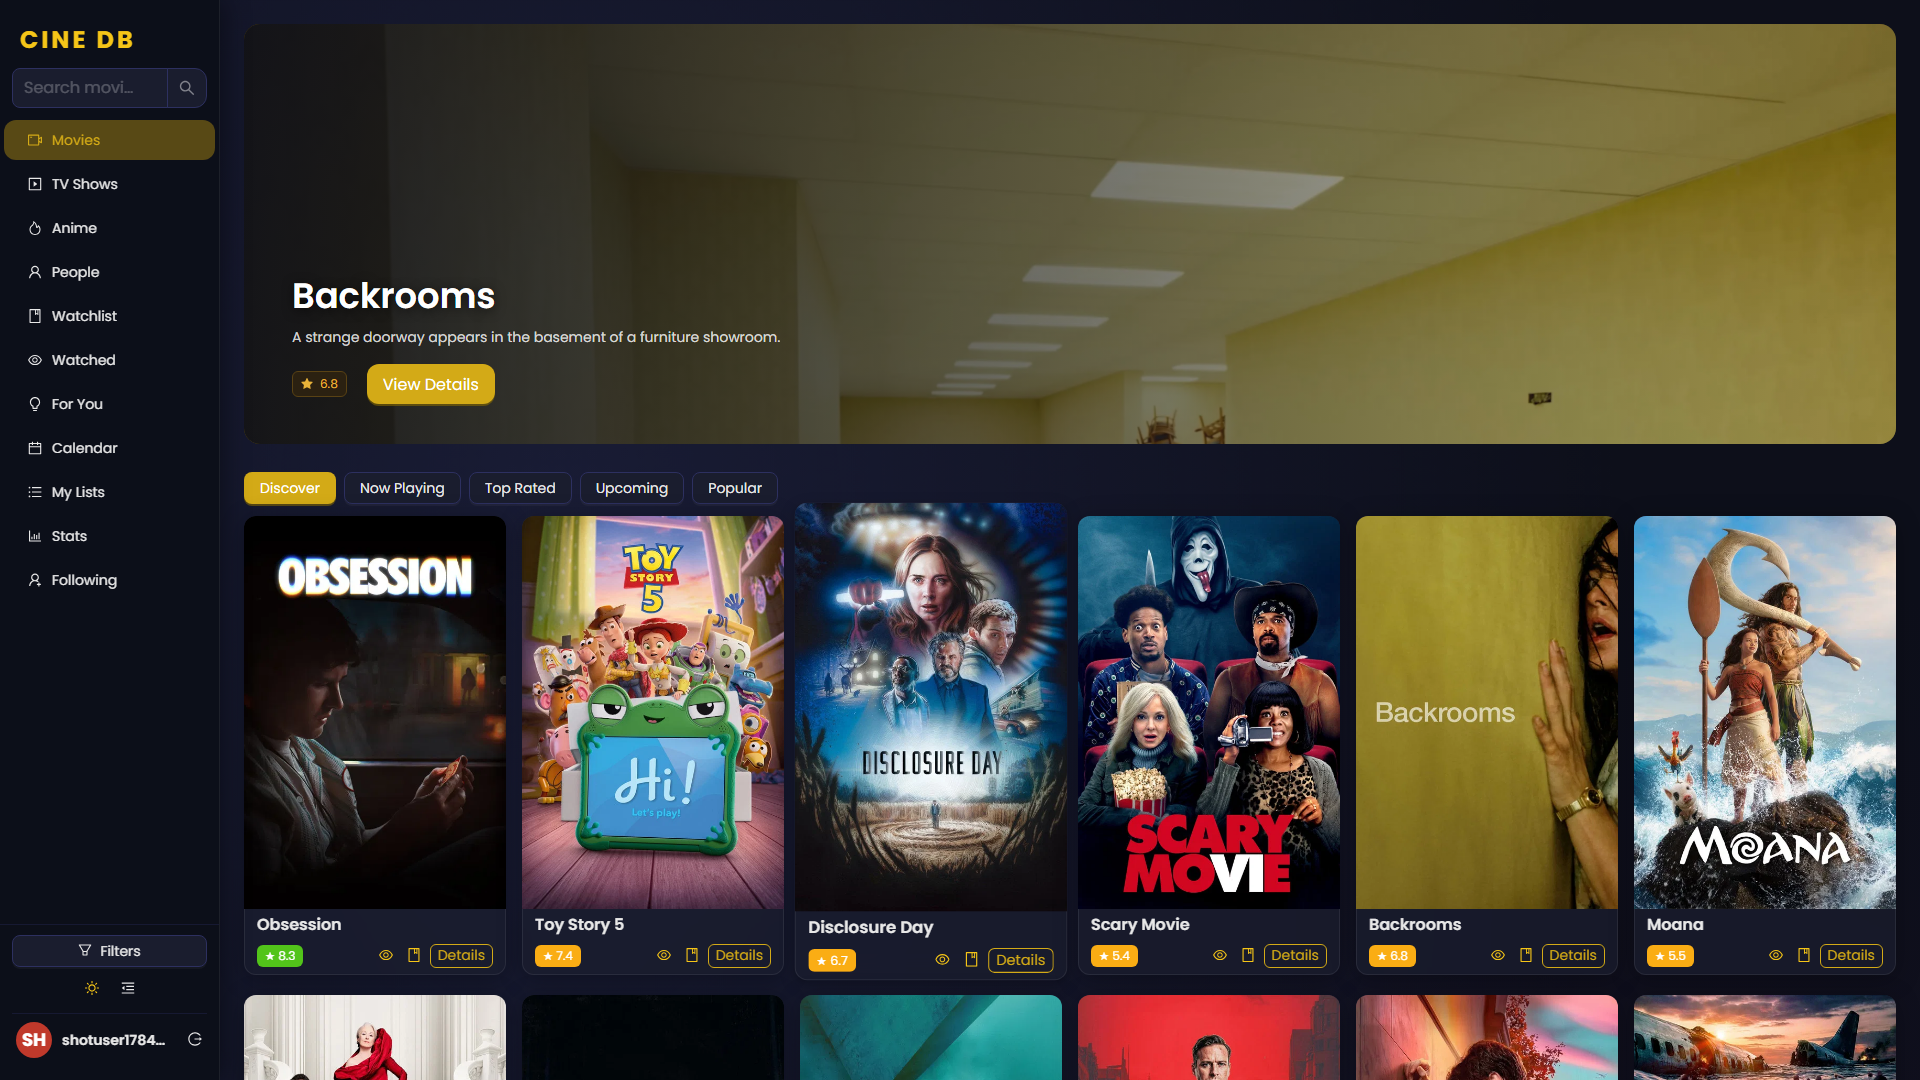
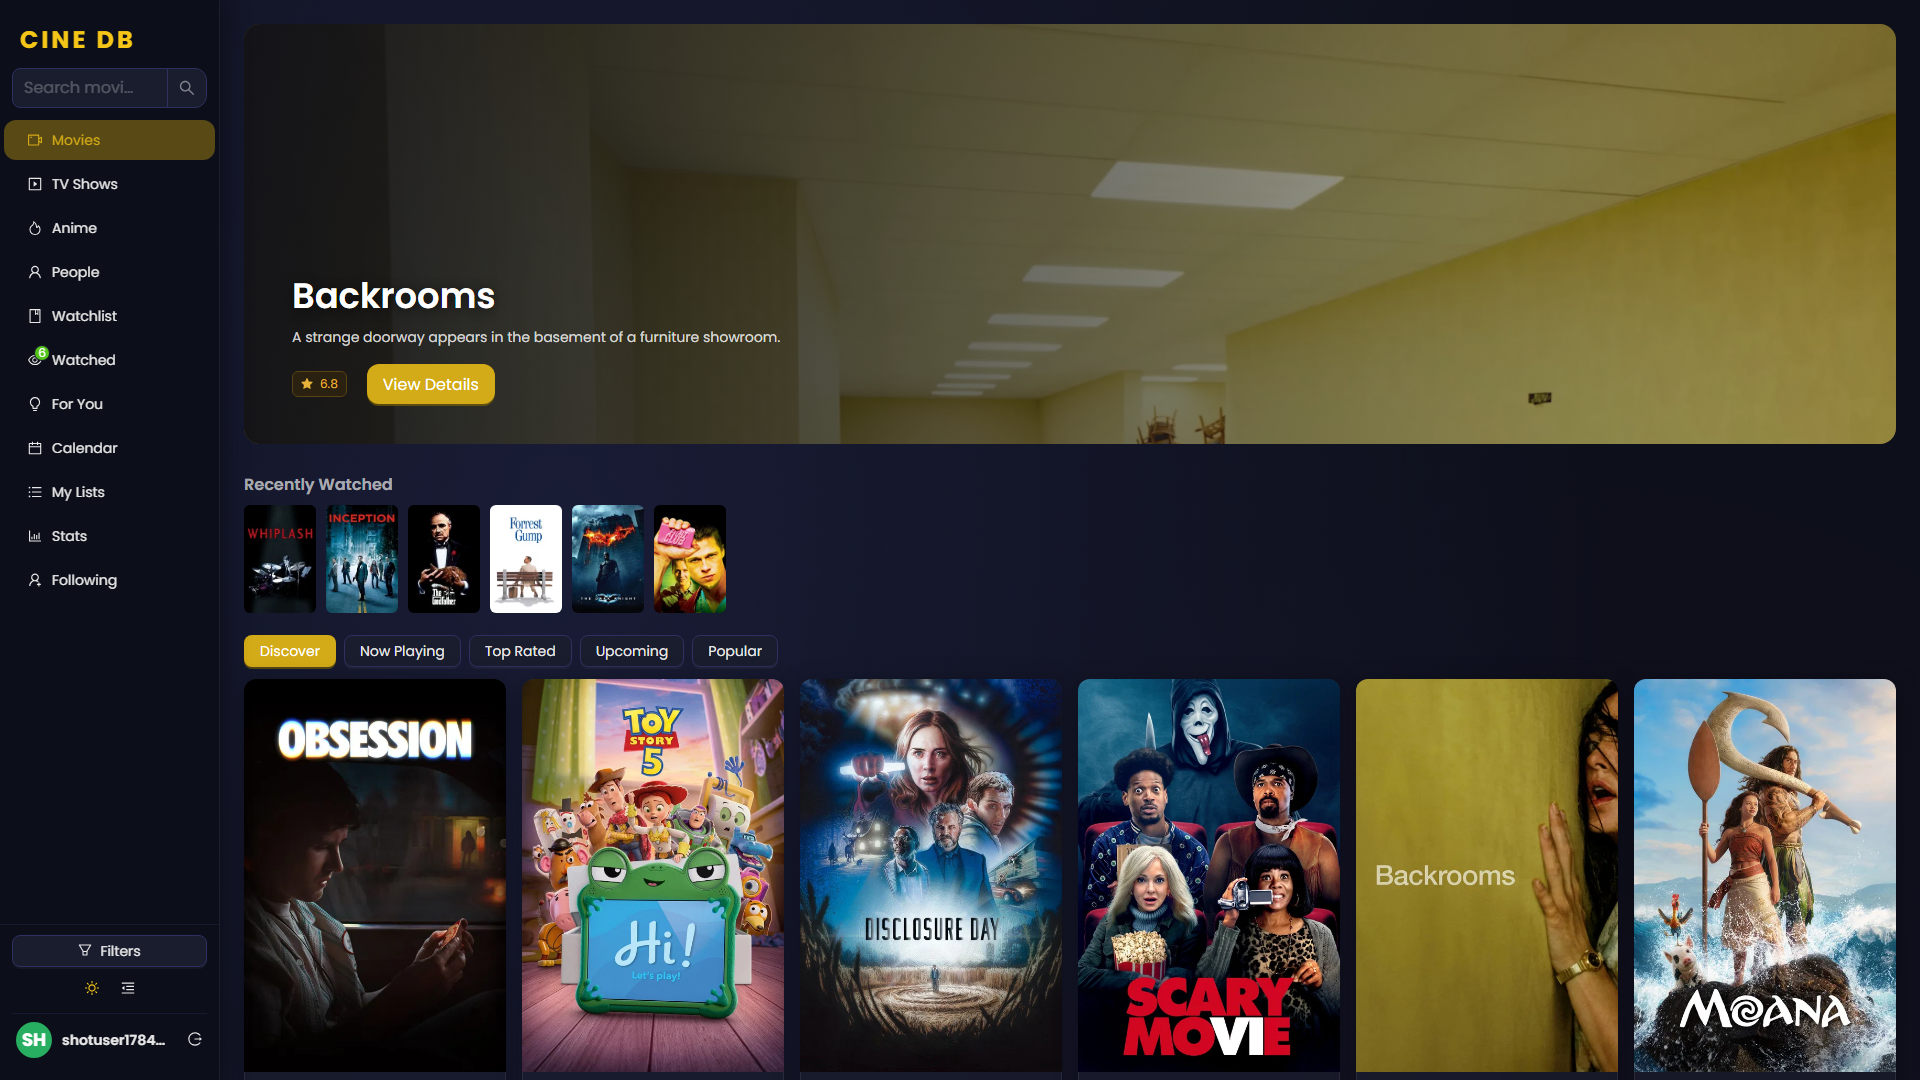
Bump to 0.15.1, fix blank Stats/Calendar in README screenshots
Regenerates the Stats and Calendar screenshots: Stats previously showed
  the empty state because the demo account had no watch history (now
  seeded with 6 known titles first), and Calendar occasionally showed
  blank skeleton cards because the capture script's image-load wait
  raced ahead of the page's own data fetch. Documents both gotchas in
  CLAUDE.md for future scripting against this app.

diff --git a/CLAUDE.md b/CLAUDE.md
@@ -36,6 +36,8 @@ Guidance for Claude Code when working in this repo. See `README.md` for full fea
 - To actually see a change: `npm run dev`, then drive it with Playwright (`playwright-core` is already a devDependency) — most pages require an authenticated user. Fastest path: register a throwaway account via `/register` (no email verification), then navigate. Movie ID `550` (Fight Club) is a reliable TMDB id for detail-page checks.
 - Write any verification scripts into the project root as `verify_*.js` (or `verify_*.py` for E2E/Playwright debugging) and delete them before finishing — don't leave scratch scripts in the tree (`.gitignore` also excludes both patterns as a backstop).
 - `useLocalStorage` (`src/hooks/useLocalStorage.ts`) `JSON.parse`s whatever it reads back out of a key, so a script/console write must be JSON-encoded (`localStorage.setItem("cinedb_theme", JSON.stringify("light"))`) — writing the bare string (`"light"` unquoted) makes the parse throw and silently falls back to the hook's default, with no visible error. Bit a Playwright screenshot script that tried to force light theme this way; theme never actually changed until the write was JSON-encoded.
+- When scripting a page that renders `SkeletonCard` (`src/components/SkeletonCard.tsx`, antd `Skeleton`/`Skeleton.Image`) while its own data fetch is in flight, don't wait on `<img>` completeness alone before screenshotting/asserting — the real `<img>` tags for its cards don't exist in the DOM yet, so that wait trivially passes on the loading state itself. Wait for `.ant-skeleton` to be gone first, then wait on images.
+- `CalendarPage`'s "next 7 days" list is a live TMDB fetch and can transiently come back empty under back-to-back automated requests (e.g. a screenshot script hitting several pages in quick succession), even seconds after the same account got a full list — don't treat one empty result as ground truth in a script/test; retry a couple of times before concluding the range genuinely has nothing.
 - `e2e/python/pytest.ini` sets `timeout_method = thread`, not pytest-timeout's default `signal` — required for this suite specifically. A hung Playwright sync-API call blocks in a background thread (its own asyncio subprocess reaper), and `signal`-mode timeouts only interrupt the main thread, so they can't unblock it; the process then rides GitHub Actions' 6h default job timeout instead of failing the one test. `thread` mode force-exits the interpreter on timeout instead, which is Playwright's own documented recommendation. Don't revert this to `signal` even though it means a genuinely stuck test kills the whole run rather than just failing — that's the safer failure mode here. `.github/workflows/ci.yml`'s `e2e-python` job also caps at `timeout-minutes: 15` as a backstop.
 - E2E `page.route()` overrides for `/api/django/(watchlist|watched|ratings|lists)/` need a trailing `**`, not an exact path — `fetchAllPages()` (`src/utils/fetchAllPages.ts`) always appends `?page=1`, even to the first request, so an exact-match pattern silently never fires and the request falls through to whatever broader mock is registered (see `mock_base_django_routes` in `conftest.py`). When a test registers more than one route on the *same* pattern to model different requests (e.g. GET the list vs POST to create), don't stack two separate `page.route()` calls — Playwright checks routes last-registered-first, so the second call would shadow the first for every request on that path, not just the one it's meant for. Branch on `r.request.method` inside a single handler instead (see `test_lists.py`'s `test_create_list_success_shows_new_card` for the pattern).
 

diff --git a/CHANGELOG.md b/CHANGELOG.md
@@ -3,6 +3,12 @@
 All notable changes to this project are documented here.
 Format loosely follows [Keep a Changelog](https://keepachangelog.com/).
 
+## [0.15.1] - 2026-07-14
+
+### Fixed
+- README's Stats screenshot showed the app's empty state ("Start watching movies and TV shows...") because the throwaway demo account used to capture it had no watch history — regenerated after seeding 6 well-known titles via the `/watched/` API first, so the dashboard, genre charts, and Home page's "Recently Watched" strip all show real data.
+- README's Calendar screenshot occasionally showed blank/skeleton poster cards: the capture script's image-load wait only checked `<img>` completeness, but `SkeletonCard`'s antd `Skeleton`/`Skeleton.Image` placeholders don't render real `<img>` tags at all while `CalendarPage`'s own data fetch is still in flight, so the wait passed before any poster existed to load. Also hit the live "next 7 days" TMDB fetch occasionally coming back empty under the capture script's request burst even moments after the same account got a full list — now retries a few times before accepting an empty result.
+
 ## [0.15.0] - 2026-07-14
 
 ### Added
